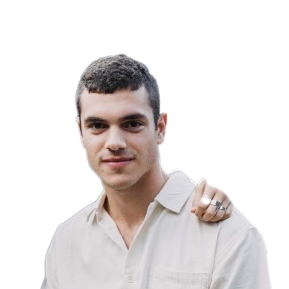
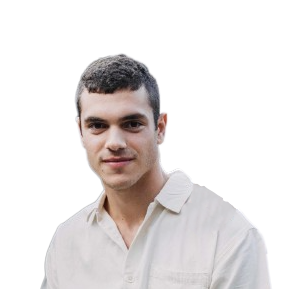
APK Link added, Personal image update

Changed region(s): [[0.6228, 0.6228, 0.8097, 0.8097]]

diff --git a/index.html b/index.html
@@ -89,7 +89,7 @@
         <h1 class="heading-primary">Hey, My name is Nitay Mayo</h1>
         <div class="home-hero__info">
           <p class="text-primary">
-            Experienced AI developer with a focus on quantum computing.
+            Enthusiastic AI developer with a focus on quantum computing.
             On my webpage, you will find a diverse range of projects
             demonstrating my abilities as a developer
           </p>
@@ -159,7 +159,7 @@
               <p class="about__content-details-para">
                 Hey! It's
                 <strong>Nitay Mayo</strong>
-                and I'm an <strong> enthusiastic AI Practitioner and a Web developer</strong> located in
+                and I'm an <strong> enthusiastic AI Practitioner and Web developer</strong> located in
                 Israel. I've done
                 <strong> many projects</strong>
                  during my academic studies and personal pursuits after knowledge!
@@ -170,7 +170,7 @@
                 <strong>variety of technologies</strong>.
                 Additionally, I have experience in building machine learning models using
                 TensorFlow and I am a <strong>Certified Tensorflow Developer from google</strong>
-                (certification <a style="color:-moz-hyperlinktext;" href="index.html#certifications">here</a>).
+                (certification <a style="color: -webkit-link;" href="index.html#certifications">here</a>).
               </p>
               <p class="about__content-details-para">
                 Overall, my portfolio showcases my ability to work with different

diff --git a/BoardNumberGame.html b/BoardNumberGame.html
@@ -111,6 +111,7 @@
         </div>
         <div class="project-cs-hero__cta">
           <a href="https://github.com/nitaymayo/BoardNumberGame" class="btn btn--bg" target="_blank">See the Code</a>
+          <a href="https://github.com/nitaymayo/BoardNumberGame/raw/master/BoardNumberGame.apk" class="btn btn--bg" target="_blank">Download APK</a>
         </div>
       </div>
     </section>
@@ -202,6 +203,7 @@
                   class="btn btn--med btn--theme-inv project-details__links-btn"
                   target="_blank"
                   >Code Link</a>
+                <a href="https://github.com/nitaymayo/BoardNumberGame/raw/master/BoardNumberGame.apk" class="btn btn--med btn--theme-inv project-details__links-btn" target="_blank">Download APK</a>
               </div>
             </div>
           </div>

diff --git a/css/style.css b/css/style.css
@@ -144,8 +144,14 @@ textarea {
   display: inline-block;
   font-weight: 700;
   border-radius: 5px;
+  margin: 0 0.6rem;
   box-shadow: 0 5px 15px 0 rgba(0, 0, 0, 0.15);
   transition: transform .3s; }
+@media only screen and (max-width: 56.25em){
+  .btn{
+    margin: 0.6rem;
+  }
+}
   .btn:hover {
     transform: translateY(-3px); }
   .btn--bg {
